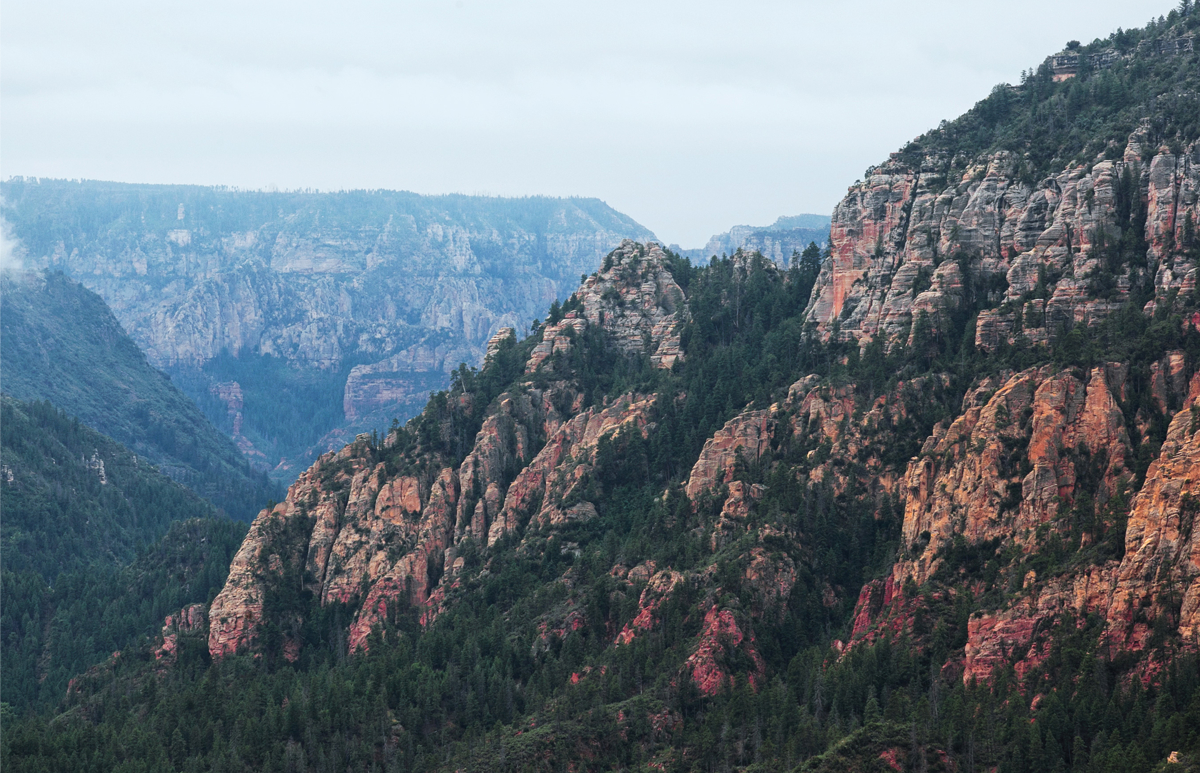
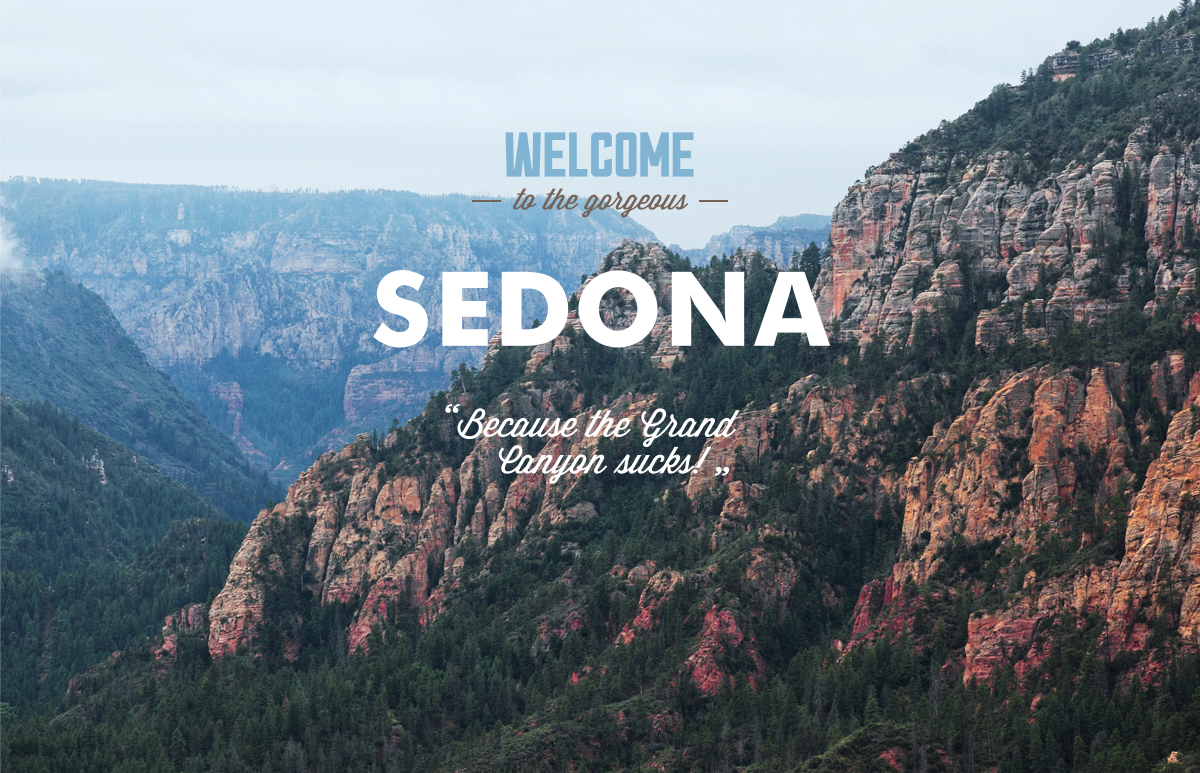
3

Changed region(s): [[0.3083, 0.3415, 0.7092, 0.4657], [0.4008, 0.1552, 0.5858, 0.2794], [0.37, 0.5278, 0.6167, 0.621]]

diff --git a/sedona2/index.html b/sedona2/index.html
@@ -23,13 +23,8 @@
 			</header>
 			
 			<div class="logo">
-				<picture>
-					
-				</picture>
 				<a class="logo-a" href="#">
-					<img class="logo-a__images" src="images/WELCOME.png" alt="">
-					<img class="logo-a__images" src="images/SEDONA.png" alt="">
-					<img class="logo-a__images" src="images/Because-the Grand Canyon.png" alt="">
+
 				</a>
 				<div class="decoration"></div>
 				<div class="decoration-end"></div>
@@ -113,12 +108,20 @@
 						<div class="form__group form__group_wrapper">
 							<div class="form__group form__group_flex">
 								<label class="form__label form__label_flex" for="adults">взрослые: </label>
-								<span class="form__num"><input class="form__input form__input_flex" id="adults" type="number" value="2"></span>
+								<span class="form__num">
+								<a href="" class="form__num_minus">—</a>
+								<input class="form__input form__input_flex" id="adults" type="number" value="2">
+								<a href="#" class="form__num_plus">+</a>
+								</span>
 							</div>
 							
 							<div class="form__group form__group_flex">
 								<label class="form__label form__label_flex" for="children">дети: </label>
-								<span class="form__num"><input class="form__input form__input_flex" id="children" type="number" value="0"></span>
+								<span class="form__num">
+								<a href="" class="form__num_minus">—</a>
+								<input class="form__input form__input_flex" id="children" type="number" value="0">
+								<a href="#" class="form__num_plus">+</a>
+								</span>
 							</div>
 						</div>
 						<input class="form__button" type="submit" value="найти"></input>

diff --git a/sedona2/style.css b/sedona2/style.css
@@ -1,4 +1,3 @@
-@charset "UTF-8";
 input[type=number]::-webkit-inner-spin-button,
 input[type=number]::-webkit-outer-spin-button {
   -webkit-appearance: none;
@@ -89,7 +88,7 @@ p {
 
 .logo-a {
   display: block;
-  padding-top: 76px; }
+  padding-top: 455px; }
 
 .logo-a__images {
   display: block;
@@ -358,20 +357,18 @@ input {
 
 .form__num {
   position: relative; }
-  .form__num:before {
-    content: "—";
+  .form__num_minus {
     position: absolute;
     left: 37px;
-    top: 0px;
+    top: 10px;
     width: 15px;
     height: 15px;
     color: #c1c1c1;
     z-index: 1; }
-  .form__num:after {
-    content: "+";
+  .form__num_plus {
     position: absolute;
     right: 14px;
-    top: -2px;
+    top: 7px;
     width: 15px;
     height: 15px;
     color: #c1c1c1;

diff --git a/sedona2/style.sass b/sedona2/style.sass
@@ -127,7 +127,7 @@ p
 
 .logo-a
 	display: block
-	padding-top: 76px
+	padding-top: 455px
 
 .logo-a__images
 	display: block
@@ -402,20 +402,18 @@ input
 
 .form__num
 	position: relative
-	&:before
-		content: "—"
+	&_minus
 		position: absolute
 		left: 37px
-		top: 0px
+		top: 10px
 		width: 15px
 		height: 15px
 		color: #c1c1c1
 		z-index: 1
-	&:after
-		content: "+"
+	&_plus
 		position: absolute
 		right: 14px
-		top: -2px
+		top: 7px
 		width: 15px
 		height: 15px
 		color: #c1c1c1
